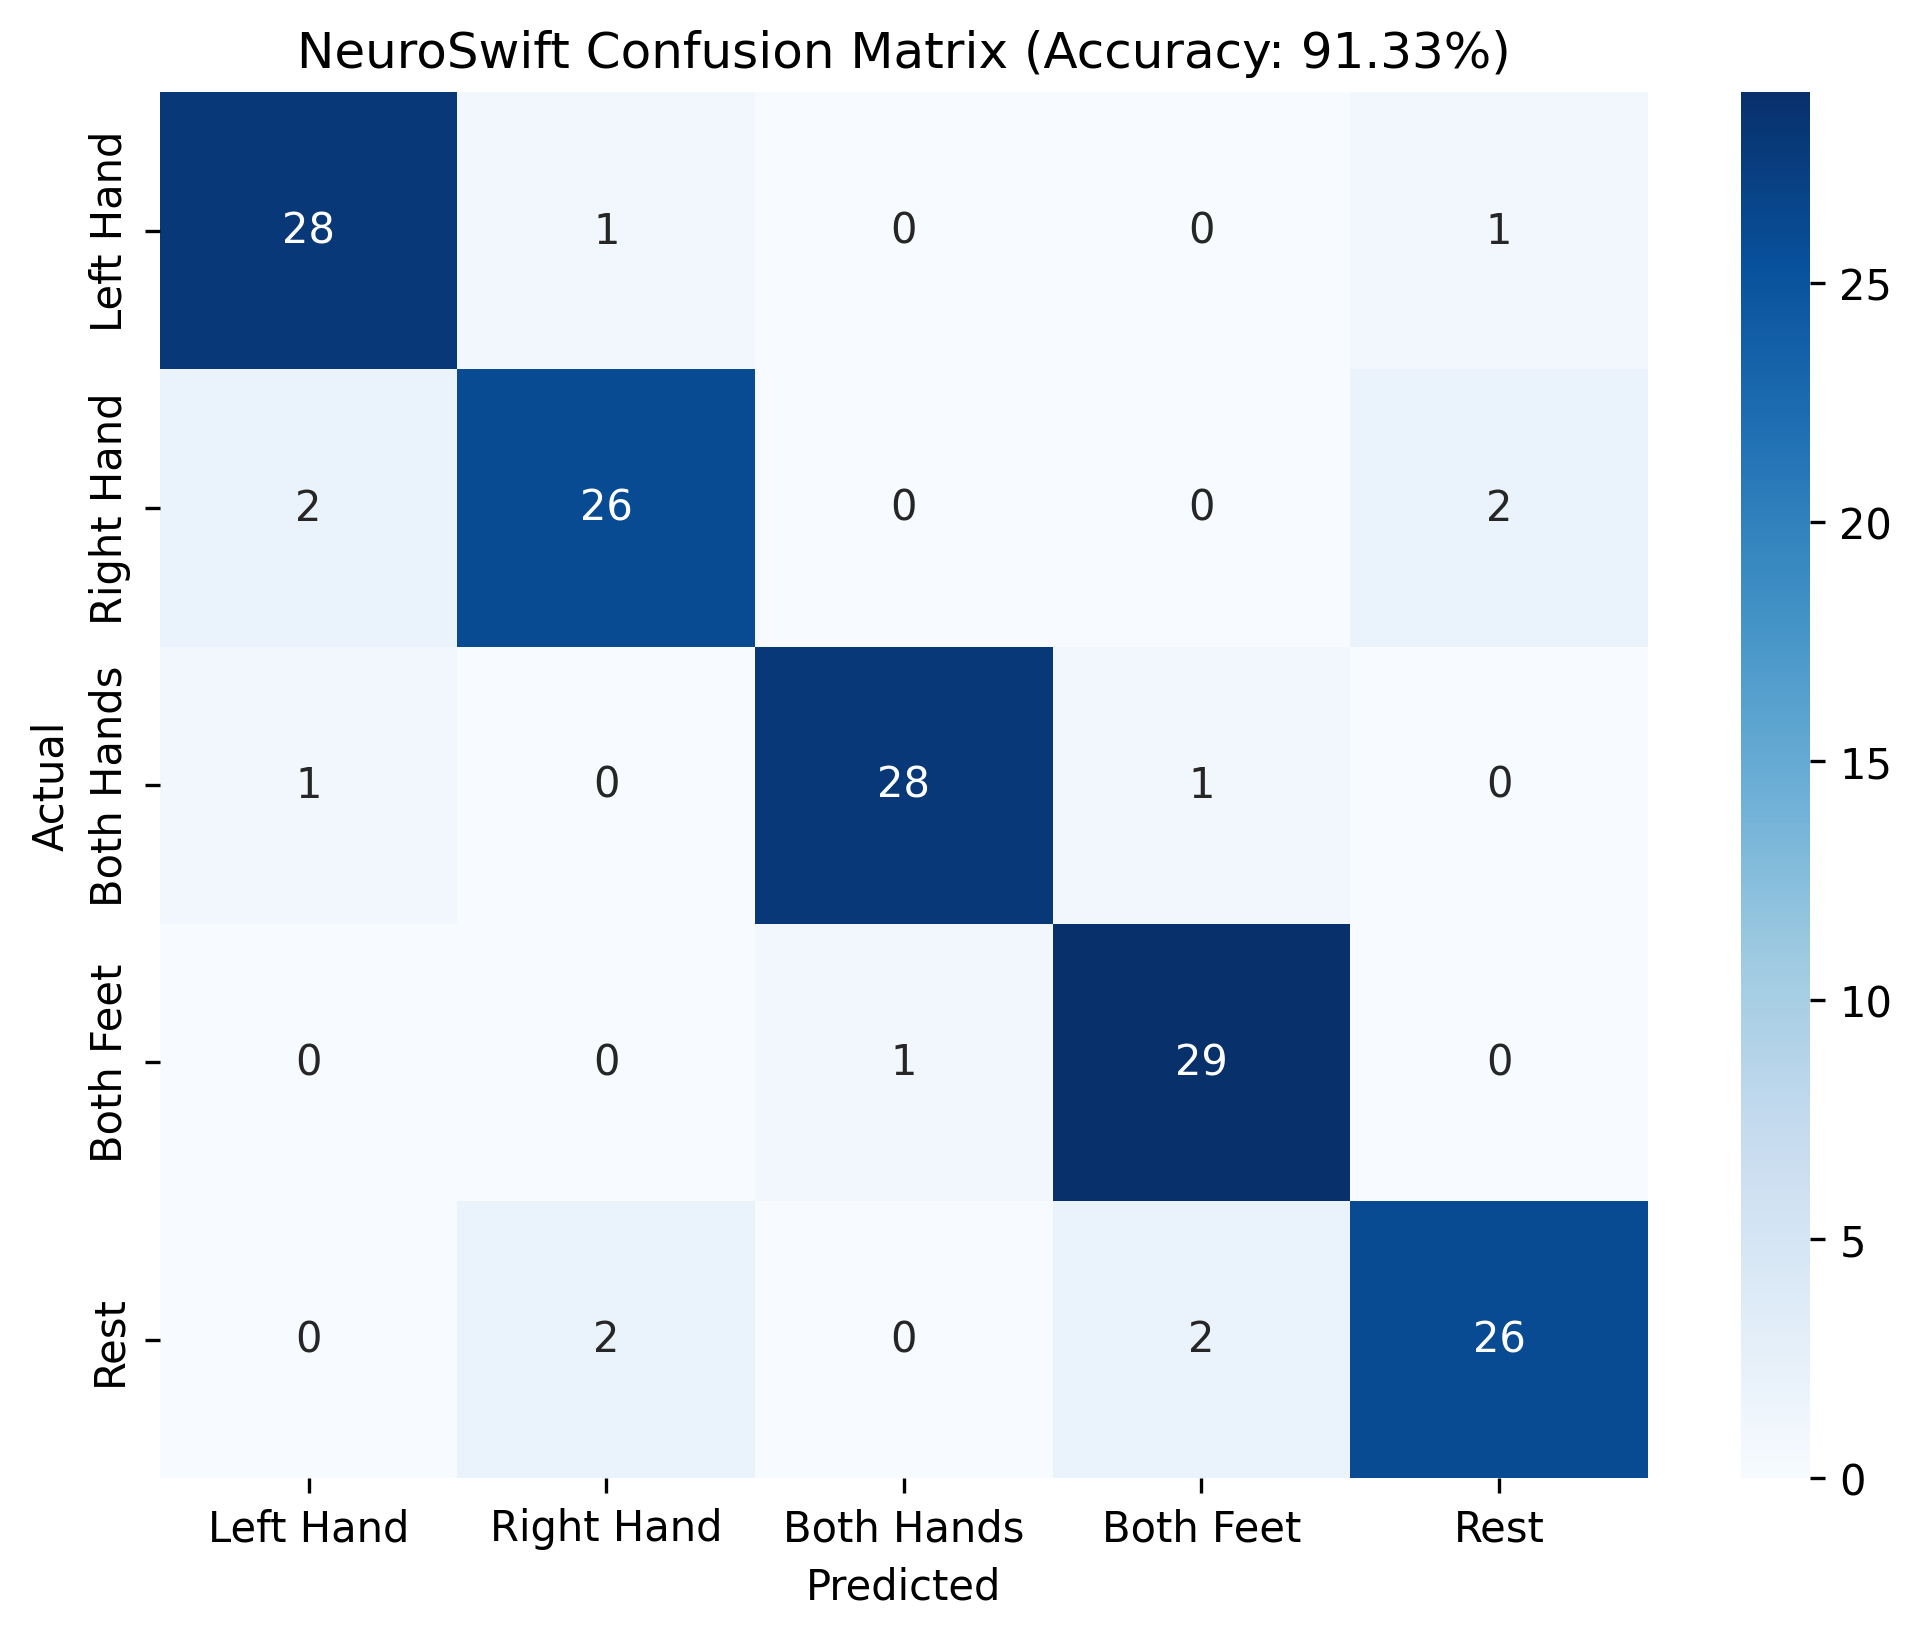
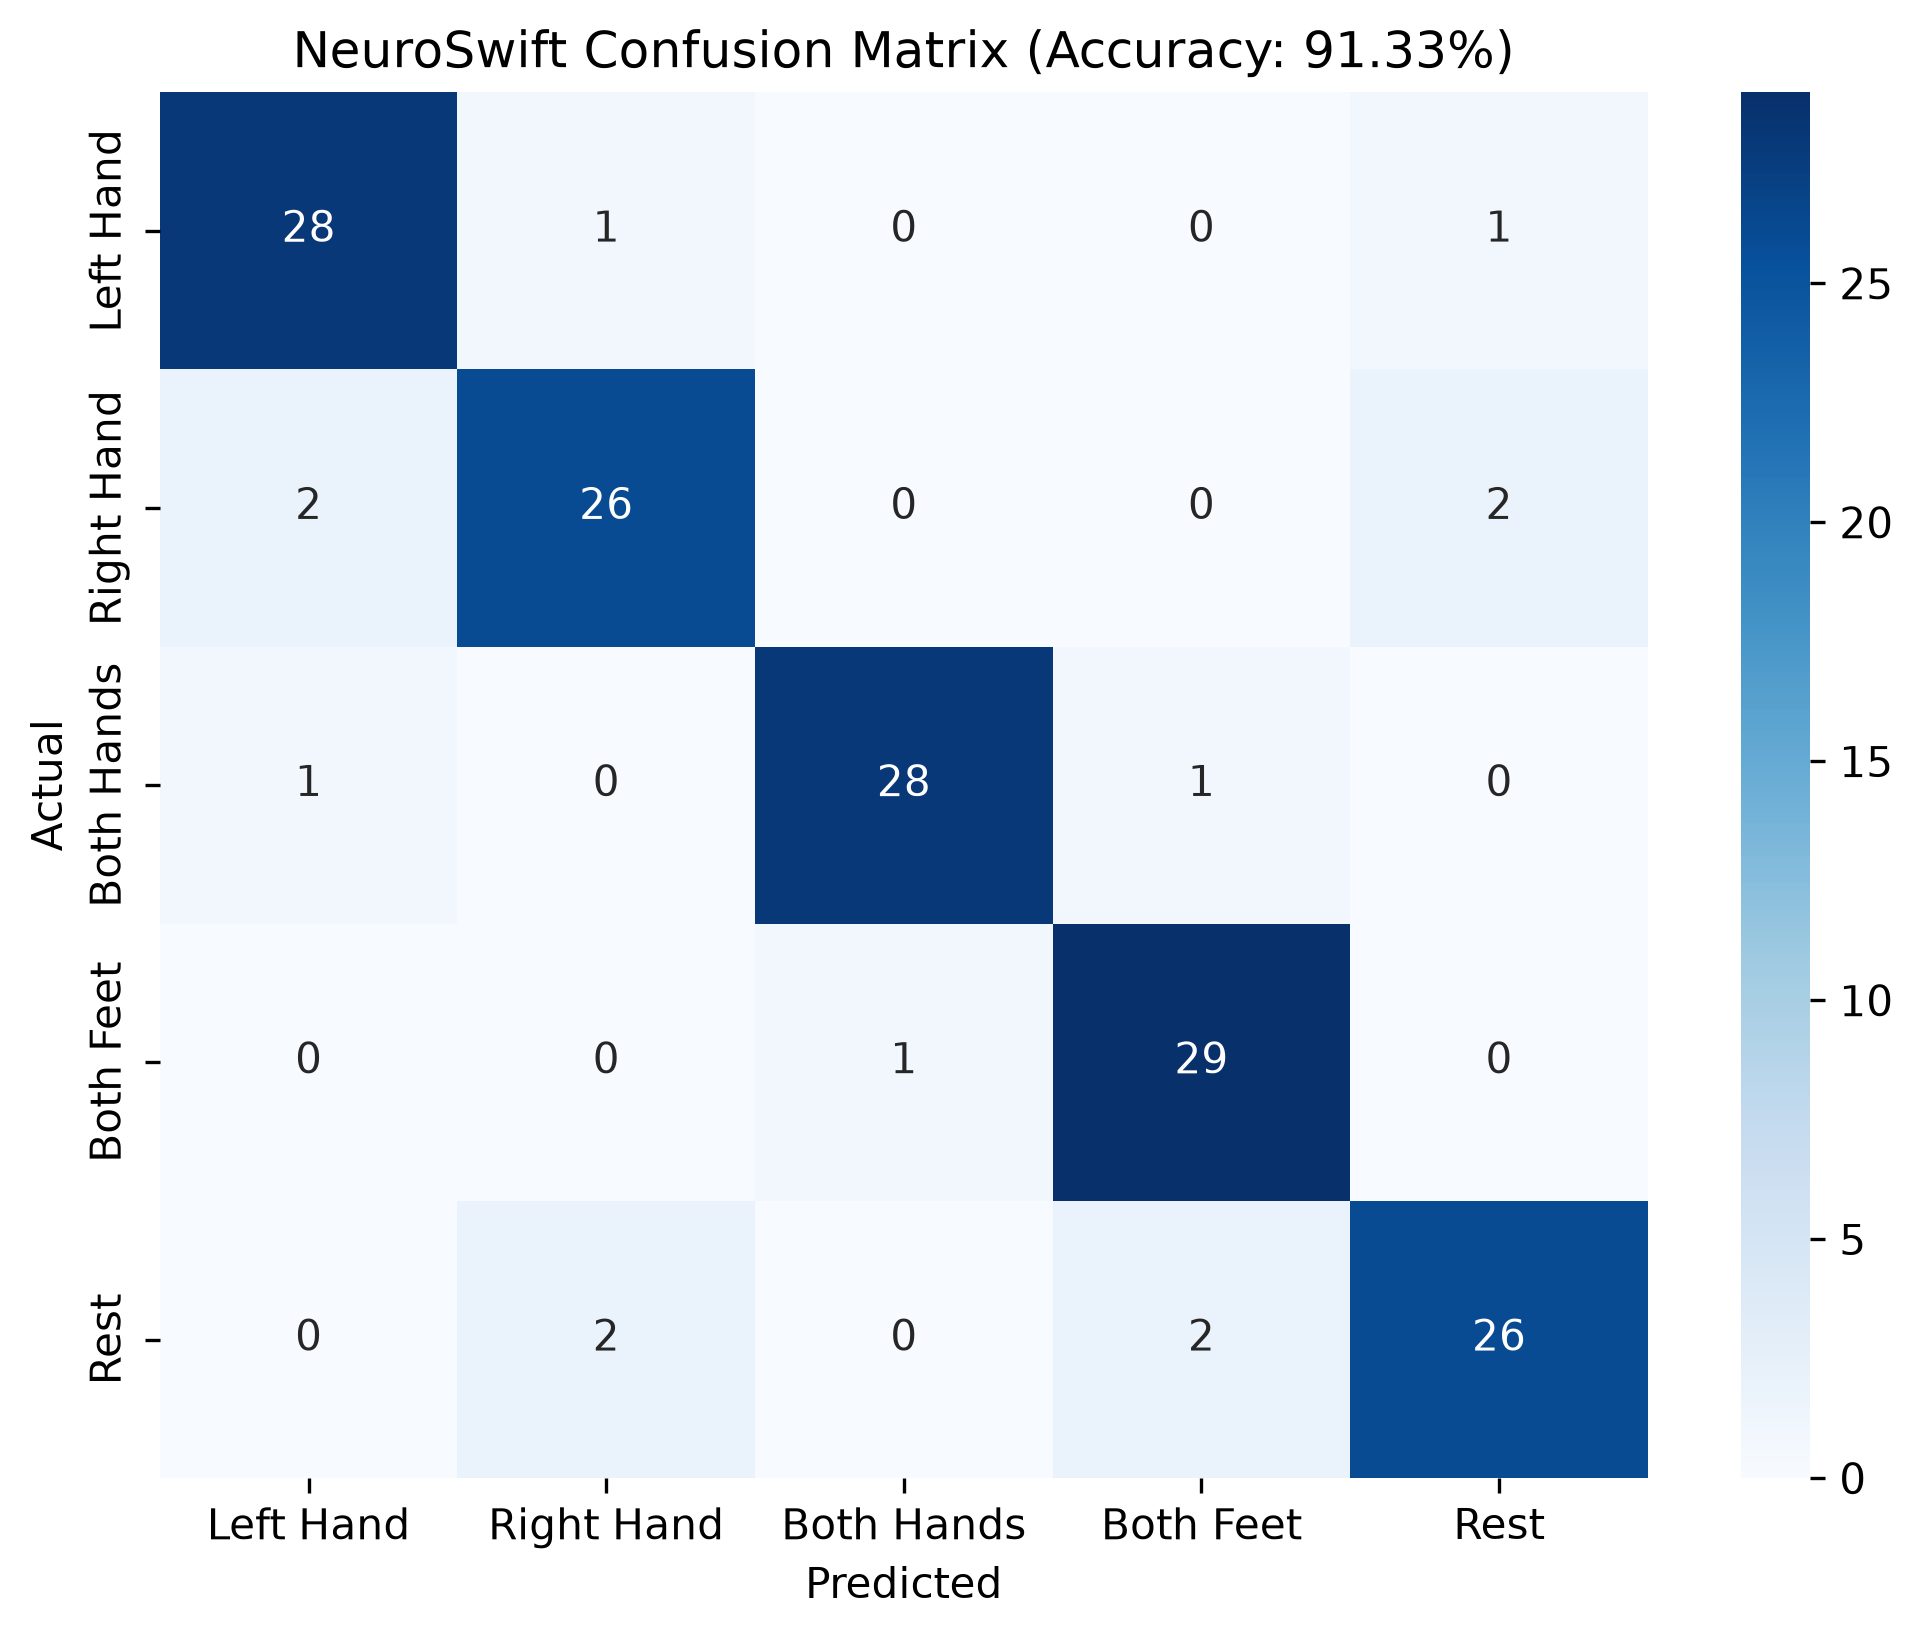
feat(physionet): standardize on 5-model ensemble (91.33%) as sole classifier in demo and docs

diff --git a/demo/app.py b/demo/app.py
@@ -217,13 +217,7 @@ with st.sidebar:
     # --------------------------------------
     if dataset_choice.startswith("PhysioNet"):
         st.header("⚙ PhysioNet Architecture")
-        model_choice = st.selectbox(
-            "Classifier Engine:",
-            [
-                "NeuroSwift Single Model (ECA + MultiScale, 86% Val Acc)",
-                "NeuroSwift 5-Model Ensemble (91.33% Test Acc - Beats Base Paper)"
-            ]
-        )
+        st.success("🧠 **NeuroSwift 5-Model Ensemble** (91.33% Test Acc — Beats Base Paper)")
 
         st.header("📂 PhysioNet Input")
         st.info("Upload or select a real PhysioNet EEG (.edf) file.")
@@ -421,10 +415,9 @@ if dataset_choice.startswith("PhysioNet"):
         plt.close(fig)
 
         if st.button("🔮 Classify PhysioNet Trial", use_container_width=True, type="primary", key="btn_pn"):
-            use_ensemble = "Ensemble" in model_choice and ensemble_model is not None
             trial_norm = normalize_trial(X[idx : idx + 1])
 
-            if use_ensemble:
+            if ensemble_model is not None:
                 probs = ensemble_model.predict_proba(trial_norm)
                 pred_idx = int(np.argmax(probs[0]))
                 st.session_state.pn_pred = pn_class_names[pred_idx]
@@ -443,7 +436,7 @@ if dataset_choice.startswith("PhysioNet"):
                     st.session_state.pn_all_probs = probs[0].numpy() * 100
                     st.session_state.pn_has_result = True
             else:
-                st.warning("Model not loaded.")
+                st.warning("PhysioNet ensemble model not loaded.")
 
         if st.session_state.get("pn_has_result", False):
             st.subheader("🎯 Prediction Result (5 Classes)")

diff --git a/README.md b/README.md
@@ -202,7 +202,7 @@ streamlit run demo/app.py
 
 1. Open `http://localhost:8501` in your browser.
 2. Select your desired dataset mode in the sidebar:
-   - **PhysioNet (64 Channels, 5 Classes):** Single Model & 5-Model Ensemble (`91.33%` test accuracy)
+   - **PhysioNet (64 Channels, 5 Classes):** Calibrated 5-Model Ensemble (`91.33%` test accuracy)
    - **BCI Competition IV 2a (22 Channels, 4 Classes):** MultiScale + ECA-Net with Euclidean Alignment (`85.60%` test accuracy)
 3. Select any subject (S01–S09 or PhysioNet S001–S109) and trial index.
 4. Observe live multi-channel motor cortex waveforms (**C3, Cz, C4**) and click **🔮 Classify EEG Trial**.
